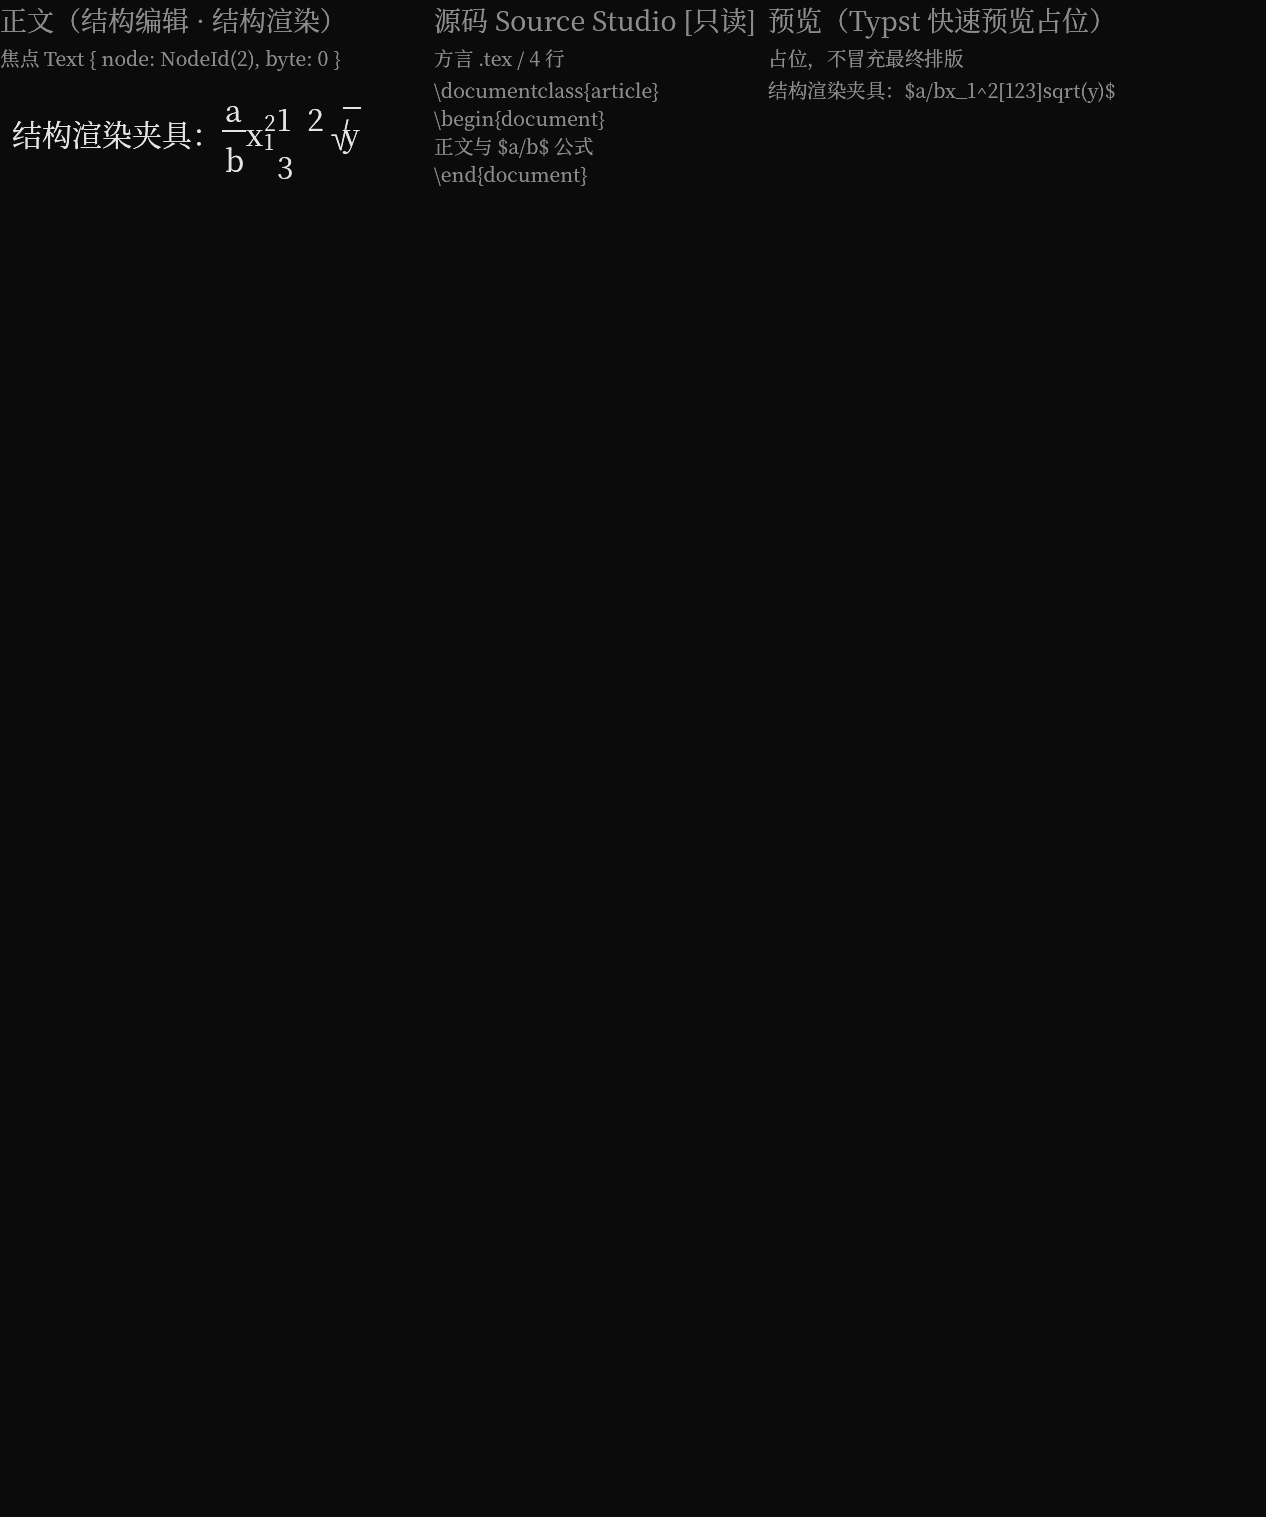
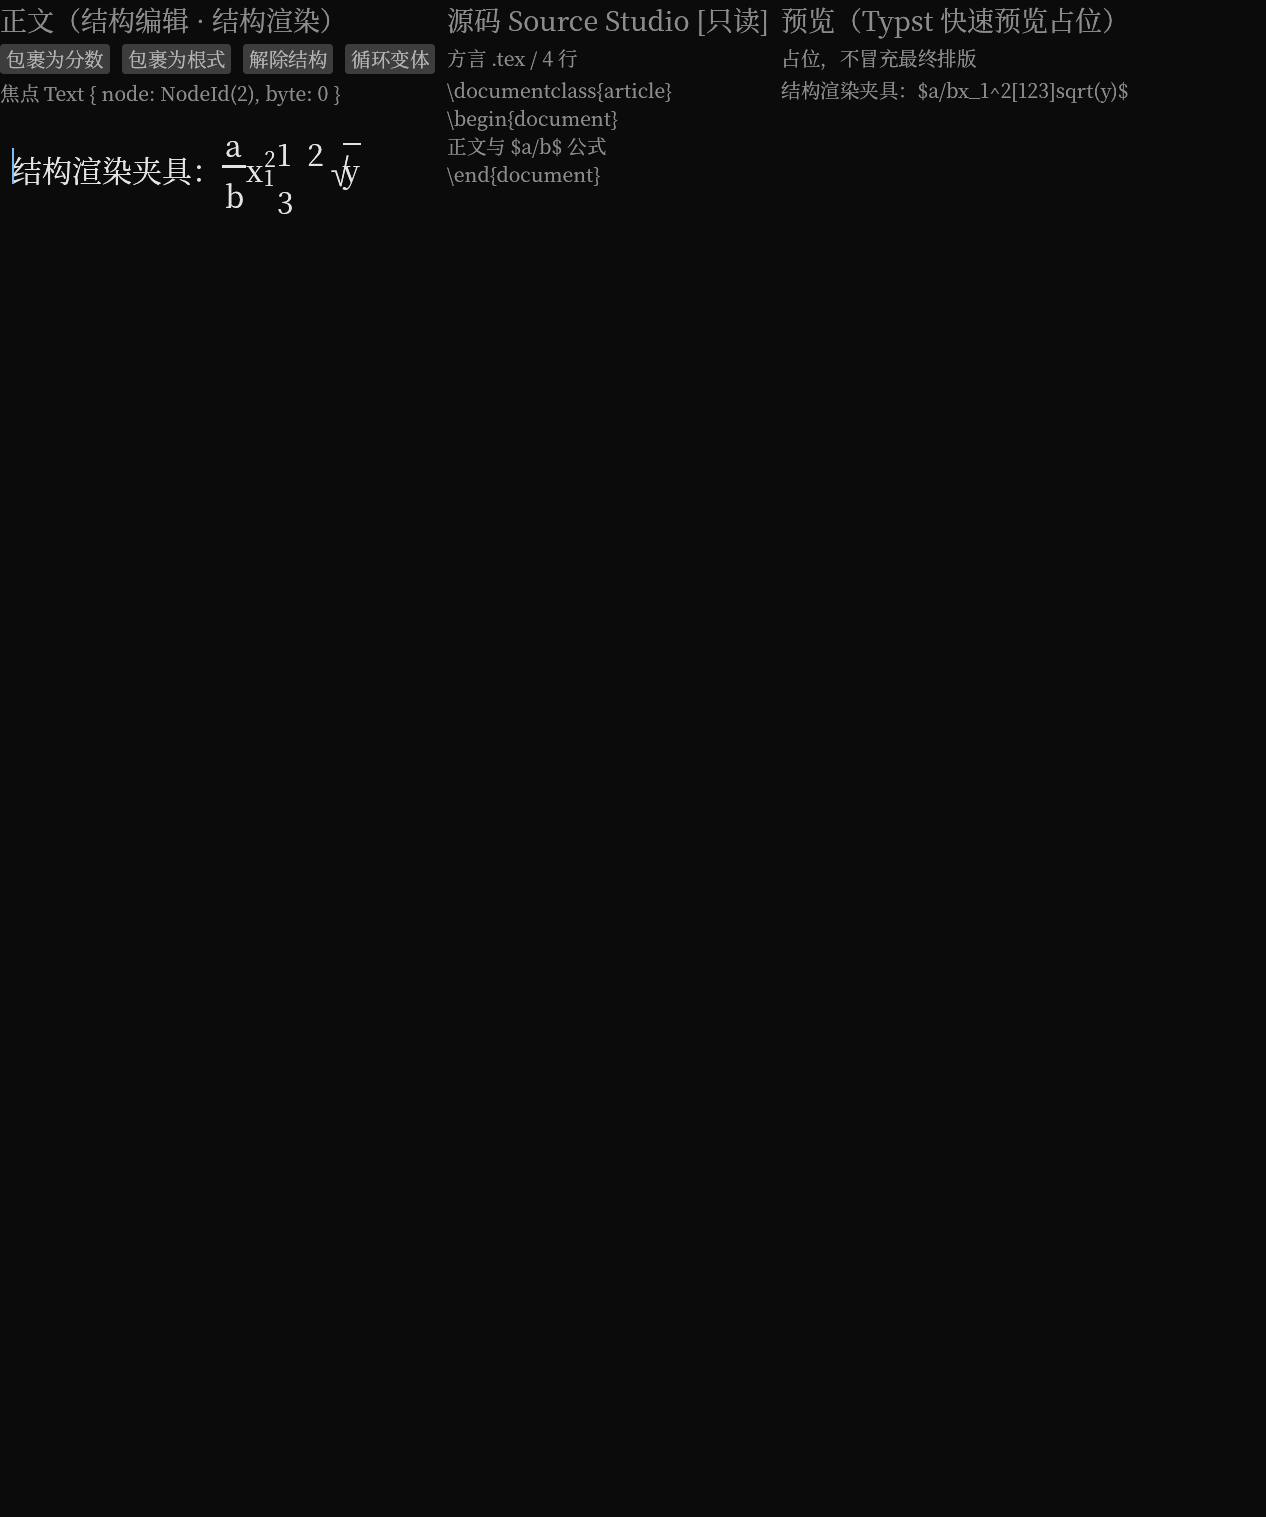
feat: 给被选定的 egui 候选补上结构编辑命令（包裹/解除/循环变体）
发现：Iced 候选有 Wrap/Unwrap/CycleVariant，而被选定的 egui 候选**完全没有**——
这是验收项"结构编辑"的真实缺口，不是文档措辞问题。

- 候选新增 wrap(NodeKind) / unwrap() / cycle_variant()，对应核心的三个语义编辑，界面加四个按钮
- 包裹后**焦点跟随新结构**（Wrap 把新结构放在被包裹节点原位置，从该节点的父节点即可取到）；
  第一版焦点仍停在文本叶子上，导致 unwrap 被拒——这是用户操作不连贯，不只是测试问题
- headless 测试 2 个（包裹产生结构且不丢原文、解除移除结构且保留内容），egui 测试 10 → 12
- 测试前提错了一次：夹具本身已含 Sqrt(y)，改用夹具中不存在的 Delimited 并按出现次数断言
- 运行时冒烟复验通过（窗口创建、0 error、干净退出）

文档同步：报告 0004 增「结构编辑补充」一节并更新验收行；出口条件第 1 条改为
"结构编辑有命令与测试，仅跨节点选区删除未做"；路线图同步。

Changed region(s): [[0.0, 0.0, 0.8626, 0.1239]]

diff --git a/spikes/native-ui/candidate-egui/src/lib.rs b/spikes/native-ui/candidate-egui/src/lib.rs
@@ -10,6 +10,7 @@ use std::sync::Arc;
 
 use eframe::egui;
 use scholium_spike_core::{
+    NodeKind,
     Selection,
     ActorId, Cursor, Dialect, Direction, Editor, Intent, Item, Layout, NodeId, SemanticEdit,
     SourcePane, cursor::move_cursor, fixture, layout_document,
@@ -115,6 +116,54 @@ impl SpikeApp {
                     .first_text_descendant(*child)
                     .map(|text_node| (text_node, 0))
             }
+        }
+    }
+
+    /// 把焦点节点包进一个结构。
+    ///
+    /// 与 Iced 候选的同名能力对齐：结构编辑是验收项之一，候选必须能真的执行，
+    /// 而不只是核心里有这两个 API。
+    pub fn wrap(&mut self, kind: NodeKind) {
+        let node = self.focus.focus();
+        let edit = SemanticEdit::Wrap { node, kind };
+        match self.core.apply(LOCAL, Intent::Structural, edit) {
+            Ok(Some(_)) => {
+                // 焦点跟随新结构：包裹后用户接下来的操作（解除、循环变体）显然应作用于它。
+                // Wrap 把新结构放在被包裹节点的原位置，所以从被包裹节点的父节点就能取到。
+                if let Some((wrapper, _, _)) = self.core.document().locate_in_parent(node) {
+                    self.focus = Cursor::Slot {
+                        node: wrapper,
+                        slot: 0,
+                        index: 0,
+                    };
+                    self.selection = Selection::collapsed(self.focus);
+                }
+                self.last_event = format!("core：包裹为 {kind:?}");
+            }
+            Ok(None) => self.last_event = "包裹：无变化".to_string(),
+            Err(error) => self.last_event = format!("包裹被拒：{error}"),
+        }
+    }
+
+    /// 解除最内层结构，保留内容。
+    pub fn unwrap(&mut self) {
+        let node = self.focus.focus();
+        let edit = SemanticEdit::Unwrap { node };
+        match self.core.apply(LOCAL, Intent::Structural, edit) {
+            Ok(Some(_)) => self.last_event = "core：解除结构".to_string(),
+            Ok(None) => self.last_event = "解除：无变化".to_string(),
+            Err(error) => self.last_event = format!("解除被拒：{error}"),
+        }
+    }
+
+    /// 循环结构变体（例如分数 ↔ 根式）。
+    pub fn cycle_variant(&mut self) {
+        let node = self.focus.focus();
+        let edit = SemanticEdit::CycleVariant { node };
+        match self.core.apply(LOCAL, Intent::Structural, edit) {
+            Ok(Some(_)) => self.last_event = "core：循环结构变体".to_string(),
+            Ok(None) => self.last_event = "循环变体：无变化".to_string(),
+            Err(error) => self.last_event = format!("循环变体被拒：{error}"),
         }
     }
 
@@ -361,6 +410,20 @@ impl SpikeApp {
                 ui.allocate_ui(egui::vec2(panes, ui.available_height()), |ui| {
                     ui.vertical(|ui| {
                         ui.heading("正文（结构编辑 · 结构渲染）");
+                        ui.horizontal(|ui| {
+                            if ui.button("包裹为分数").clicked() {
+                                self.wrap(NodeKind::Fraction);
+                            }
+                            if ui.button("包裹为根式").clicked() {
+                                self.wrap(NodeKind::Sqrt);
+                            }
+                            if ui.button("解除结构").clicked() {
+                                self.unwrap();
+                            }
+                            if ui.button("循环变体").clicked() {
+                                self.cycle_variant();
+                            }
+                        });
                         ui.label(format!("焦点 {:?}", self.focus));
                         let size = ui.available_size();
                         let (rect, response) =

diff --git a/spikes/native-ui/candidate-egui/tests/input.rs b/spikes/native-ui/candidate-egui/tests/input.rs
@@ -359,3 +359,85 @@ fn backspace_deletes_exactly_the_selected_range() {
         "删除后选区应折叠到起点"
     );
 }
+
+/// 把文档结构打印成紧凑摘要，便于断言。
+fn summary(document: &scholium_spike_core::Document) -> String {
+    fn walk(document: &scholium_spike_core::Document, node: scholium_spike_core::NodeId, out: &mut String) {
+        let Ok(current) = document.node(node) else {
+            return;
+        };
+        use scholium_spike_core::NodeKind;
+        match current.kind {
+            NodeKind::Text | NodeKind::Raw => out.push_str(&format!(
+                "{:?}({:?})",
+                current.kind,
+                document.text_of(node).unwrap_or_default()
+            )),
+            _ => {
+                out.push_str(&format!("{:?}(", current.kind));
+                for slot in 0..current.kind.slot_count() {
+                    if let Ok(children) = document.slot(node, slot) {
+                        for child in children {
+                            walk(document, *child, out);
+                        }
+                    }
+                }
+                out.push(')');
+            }
+        }
+    }
+    let mut out = String::new();
+    walk(document, document.root(), &mut out);
+    out
+}
+
+#[test]
+fn wrapping_the_focused_node_creates_a_structure() {
+    use scholium_spike_core::NodeKind;
+
+    let ctx = Context::default();
+    let mut app = new_app(&ctx);
+    settle(&mut app, &ctx);
+
+    // 夹具里已经有 Fraction / Script / Matrix / Sqrt，所以用夹具中不存在的
+    // Delimited 来断言，并统计出现次数而不是"包含与否"。
+    let before = summary(app.core().document());
+    assert!(!before.contains("Delimited("), "夹具不应含定界符：{before}");
+
+    app.wrap(NodeKind::Delimited);
+
+    let after = summary(app.core().document());
+    assert!(after.contains("Delimited("), "包裹后应出现定界符：{after}");
+    assert!(
+        after.contains("结构渲染夹具："),
+        "包裹不应丢失原文：{after}"
+    );
+    assert_eq!(
+        after.matches("Delimited(").count(),
+        1,
+        "只应新增一个定界符：{after}"
+    );
+}
+
+#[test]
+fn unwrapping_removes_the_structure_and_keeps_content() {
+    use scholium_spike_core::NodeKind;
+
+    let ctx = Context::default();
+    let mut app = new_app(&ctx);
+    settle(&mut app, &ctx);
+
+    app.wrap(NodeKind::Delimited);
+    assert!(summary(app.core().document()).contains("Delimited("));
+
+    app.unwrap();
+    let after = summary(app.core().document());
+    assert!(
+        !after.contains("Delimited("),
+        "解除后不应还有定界符：{after}"
+    );
+    assert!(
+        after.contains("结构渲染夹具："),
+        "解除后必须保留内容：{after}"
+    );
+}

diff --git a/docs/spikes/0004-native-ui-egui.md b/docs/spikes/0004-native-ui-egui.md
@@ -212,13 +212,25 @@ egui 提供 `Context::run_ui(RawInput, impl FnMut(&mut Ui))`，可以在**没有
 |---|---|---|
 | 中文 IME | **Pass** | 用户实机操作：预编辑到达、提交计数增长、中文进正文；预编辑期间核心动作不增长 |
 | 嵌套数学光标 / 编辑位置 | **Pass** | 共享核心 `Layout::caret` + 可见光标 + 输入法锚点；`tests/input.rs` 覆盖输入与退格 |
-| 结构选区 / 结构编辑 | **部分 Pass** | 共享核心新增 `Selection`（锚点+焦点，按文档顺序排序）；候选支持**拖拽选取**、Shift+方向键扩展、以及**同一文本叶子内的删除**（headless 测试覆盖）；**跨节点选区的删除未实现**，明确拒绝而不是猜 |
+| 结构选区 / 结构编辑 | **部分 Pass** | 候选有**结构编辑命令**（包裹为分数/根式、解除、循环变体，界面有按钮），headless 测试覆盖包裹与解除；选区支持拖拽、Shift 扩展、同一叶子内删除；**跨节点选区删除未实现**，明确拒绝而不是猜 |
 | 源码工作台 | **部分 Pass** | 只读 `TextEdit` + 方言与行数显示；可写模式与 reconcile 尚未接入界面 |
 | 无障碍 | **Pass** | 发布对象树（`frame` + `label`，含真实文本）；自绘结构用 `widget_info` 补描述 |
 | 结构渲染 | **部分 Pass** | 同一份共享布局在三个候选上可渲染并截图比对；渲染本身是**临时实现**，等 AST 后重做 |
 | 点击定位 | **Pass** | `Layout::hit_test` + `tests/input.rs` 的点击用例 |
 | 确定性输入契约 | **Pass** | 10 个无窗口测试（egui，含选区 2 个）与 8 个（iced）覆盖同一组契约 |
 | 性能 | **部分 Pass** | 已量化：每帧全量重算，20 页量级 release 约 1 ms；**无余量**，需增量与虚拟化 |
+
+### 结构编辑补充（本轮新增）
+
+原候选**完全没有结构编辑命令**（Iced 候选有，被选定的 egui 反而没有）——这是验收项"结构编辑"的真实缺口。
+本轮补上：
+
+- 候选新增 `wrap(NodeKind)` / `unwrap()` / `cycle_variant()`，对应核心的
+  `SemanticEdit::Wrap` / `Unwrap` / `CycleVariant`，界面提供四个按钮。
+- **包裹后焦点跟随新结构**：`Wrap` 把新结构放在被包裹节点的原位置，因此从被包裹节点的父节点即可取到；
+  这让"包裹 → 解除 / 循环变体"成为连贯操作（第一版焦点仍停在文本叶子上，`unwrap` 因此被拒）。
+- headless 测试 2 个（包裹产生结构且不丢原文、解除移除结构且保留内容），egui 测试 10 → 12。
+  测试里踩到一个前提错误：夹具**本身已含根式**，所以改用夹具中不存在的 `Delimited` 并按出现次数断言。
 
 ### 选区补充（本轮新增）
 

diff --git a/docs/spikes/0012-exit-criteria.md b/docs/spikes/0012-exit-criteria.md
@@ -24,7 +24,7 @@
 |---|---|---|
 | 中文 IME | **满足** | 用户实机：预编辑到达、提交计数增长、中文进正文；预编辑期间核心动作不增长 |
 | 嵌套数学光标 | **满足** | 共享核心 `Layout::caret` + 可见光标 + 输入法锚点；8 个无窗口输入契约测试 |
-| **结构选区** | **部分满足** | 核心新增 `Selection`（锚点+焦点、按文档顺序排序）；候选支持拖拽选取、Shift+方向键扩展、同一叶子内删除并有 headless 测试；**跨节点选区删除未实现** |
+| **结构选区/结构编辑** | **部分满足** | 候选有结构编辑命令（包裹/解除/循环变体 + 按钮）并有 headless 测试；选区支持拖拽、Shift 扩展、同叶删除；**跨节点选区删除未实现** |
 | 源码工作台 | **部分满足** | 只读 `TextEdit` + 方言/行数；可写模式与 reconcile 未接进界面 |
 | 锁定版本与平台 | **满足** | egui/eframe 0.36.2、winit 0.30.13、accesskit 0.24.1；Arch Linux / niri 26.04 / fcitx5 5.1.22 |
 

diff --git a/docs/ROADMAP.md b/docs/ROADMAP.md
@@ -21,6 +21,7 @@
    **第 1 项判定：egui 通过共同验收的可验证部分**（唯一同时具备中文输入法与可访问性的候选），
    锁定 eframe/egui 0.36.2 + winit 0.30.13 + accesskit 0.24.1，平台 Arch Linux / niri 26.04 / fcitx5 5.1.22；
    已补：共享核心的选区模型（拖拽、Shift 扩展、同叶删除，含 headless 测试）；
+   以及候选的结构编辑命令（包裹/解除/循环变体 + 界面按钮，含 headless 测试）；
    未承诺：**跨节点选区的删除**、复制/剪切、完整结构编辑界面、正式渲染质量、增量布局。
 2. Typst 映射 spike：20 页 SDG 生成 Typst、增量编译、NodeId ↔ glyph/preview 双向定位。
    进度见[报告 0005](spikes/0005-typst-mapping.md)：**结论 Pass（机制，含行内结构坐标）**——20 页编译约 220 ms，
